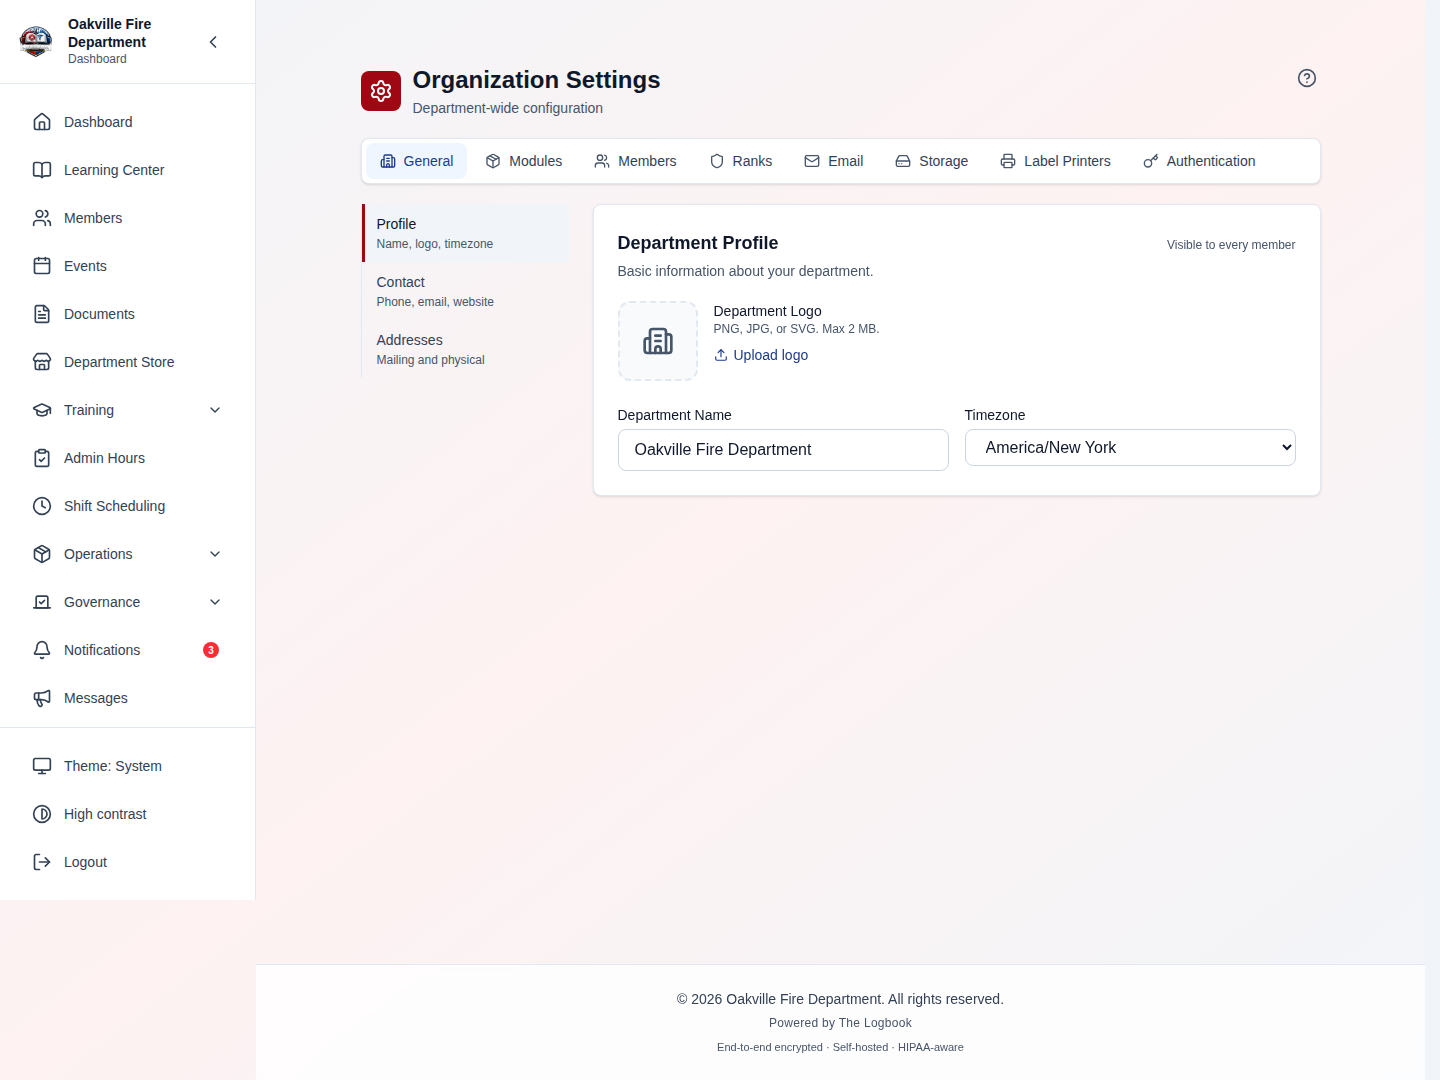
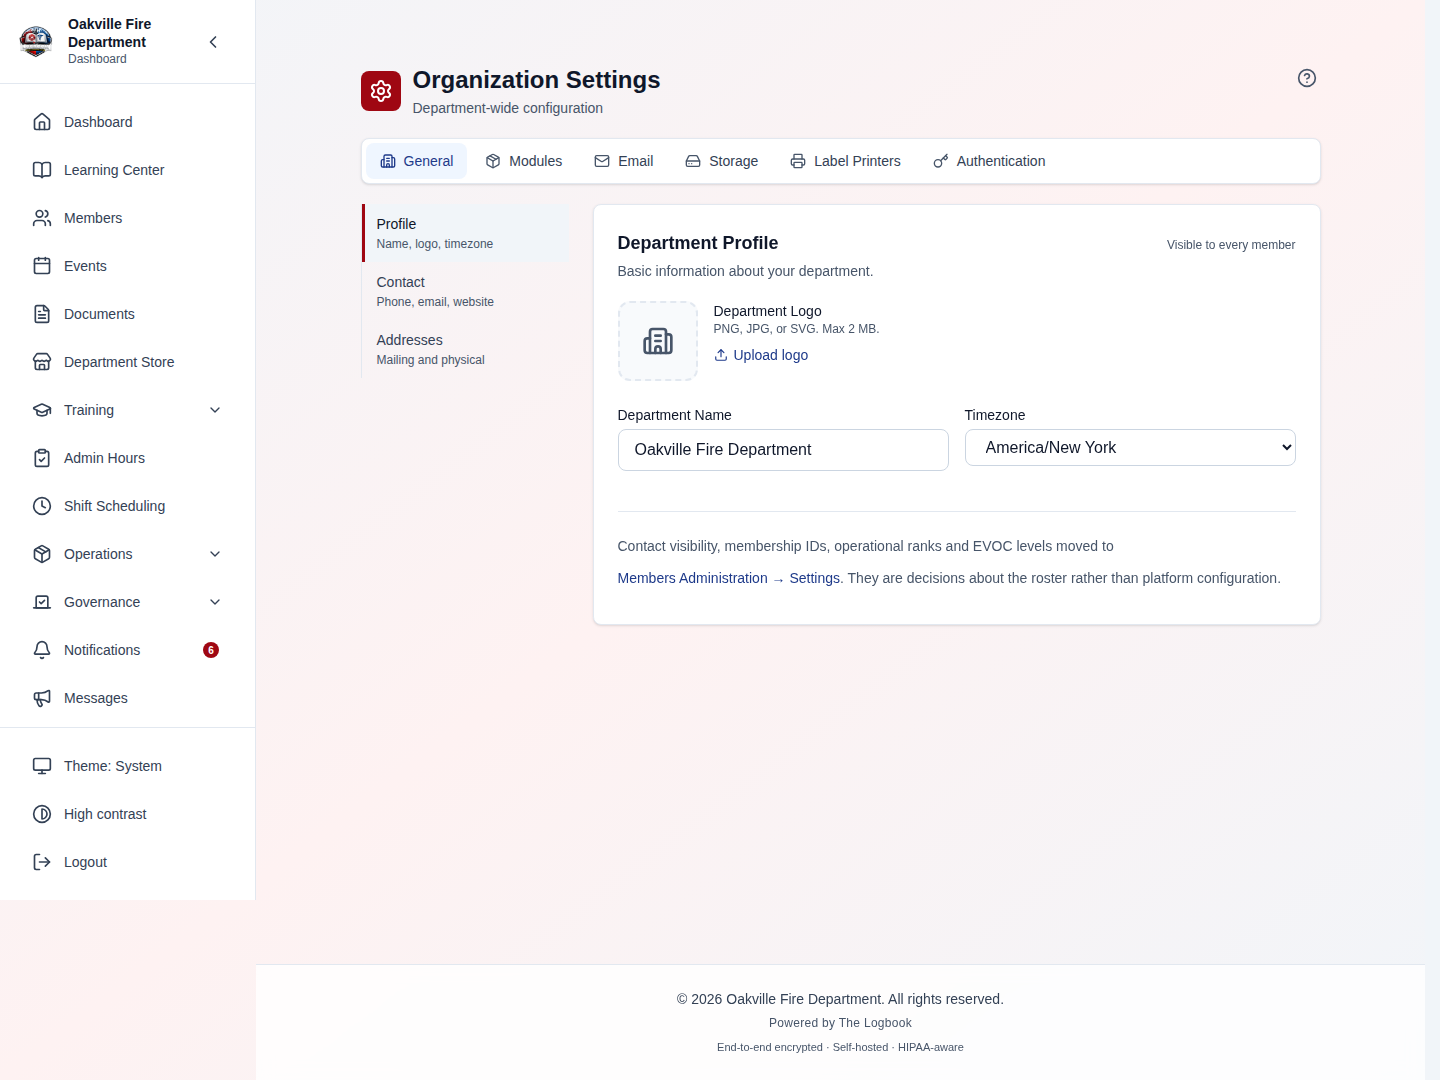
docs(screenshots): recapture ranks/evoc after Members Administration move
Resolves the September 8 queue entry: Operational Ranks and EVOC Levels
moved off the old global Settings page into their own sections under
Members Administration (RanksSection at /members/admin/settings/ranks,
EvocSection at /members/admin/settings/evoc, gated on apparatus.manage).

- Repoint 03-33-settings-eligibility's manifest route from
  /settings?tab=ranks to /members/admin/settings/ranks directly and
  recapture — the old route still redirects, but capturing the redirect
  target avoids photographing the wrong page chrome.
- Add a manifest entry and a new placeholder/screenshot for the EVOC
  Levels settings screen itself, which had never been captured (the
  prior EVOC shots are all apparatus-form fields, not the settings
  ladder).
- Recapture 08-02-organization-settings: the committed image predated
  the move and still showed a stale "Ranks" tab in the General-settings
  tab bar.
- While shooting the new EVOC capture, found seed_demo_data.py's
  Basic/Intermediate/Advanced EVOC blueprint can never land — the
  backend's lazy per-org default (EvocLevelService.DEFAULT_EVOC_LEVELS,
  the NFPA 1451 EVOC 1-4 ladder) always seeds first. Corrected
  01-membership.md's EVOC table and surrounding prose to describe the
  ladder the screen actually shows; left seed_demo_data.py itself alone
  as out of scope for this pass.
- SCREENSHOT_STATUS.md regenerated via status_report.py (568/568).
- audit_images.py --baseline and check_docs_links.py both clean.
[…]

diff --git a/docs/training/SCREENSHOT_CURRENCY.md b/docs/training/SCREENSHOT_CURRENCY.md
@@ -219,10 +219,13 @@ the same machinery as every other shot rather than being typed by hand.
 
 ## Disposition for September 8, 2026 — Operational Ranks and EVOC Levels moved into Members Administration
 
-Queue, not yet shot. Found rebasing this branch onto main through #2424 (merge
-base d24934d → 8077ad1): `03-15` on the settings-consolidation timeline this
-file already tracks, not a fresh redesign — same pattern as the earlier moves
-of Contact Visibility and Membership IDs off the global Settings page.
+**Resolved 2026-09-09.** All three items below are recaptured; nothing from
+this entry is still queued.
+
+Found rebasing this branch onto main through #2424 (merge base d24934d →
+8077ad1): `03-15` on the settings-consolidation timeline this file already
+tracks, not a fresh redesign — same pattern as the earlier moves of Contact
+Visibility and Membership IDs off the global Settings page.
 
 `RanksSettingsSection` (rendered inline on the old global Settings page) was
 replaced by a standalone `RanksSection` at `/members/admin/settings/ranks`, and
@@ -230,23 +233,33 @@ EVOC Levels — previously a sub-page of that same section — is now its own
 `EvocSection` at `/members/admin/settings/evoc`, gated on `apparatus.manage`
 rather than the ladder's `members.manage`/`settings.manage`.
 
-| Image area | Note |
-| --- | --- |
-| `03-33-settings-eligibility` | Manifest route is `/settings?tab=ranks`, which still **redirects** to `/members/admin/settings/ranks` rather than falling through to the dashboard — so the capture would not silently succeed against the wrong page, only against the wrong *chrome*: the old global-Settings shell instead of the Members Administration one the content now lives in. Repoint the manifest entry to the new route and recapture |
-| `/members/admin/settings/evoc` (EVOC Levels) | Never captured on its own — no prior manifest entry exists. The only existing EVOC shots are apparatus-form fields (`03-52`, `01-30`, `06-21`), not the settings ladder itself |
-| Any capture of the old global Settings page's section list | Loses the **Ranks** entry the sidebar used to show; two new rows (**Operational Ranks**, **EVOC Levels**) now live under Members Administration → Settings instead |
+| Image                              | Fixed                                                                                                                                                                                                                                                                                                                                                          |
+| ----------------------------------- | -------------------------------------------------------------------------------------------------------------------------------------------------------------------------------------------------------------------------------------------------------------------------------------------------------------------------------------------------------------- |
+| `03-33-settings-eligibility.png`    | Manifest route repointed from `/settings?tab=ranks` to `/members/admin/settings/ranks` directly, and recaptured — the Operational Ranks list now sits inside the Members Administration shell it actually lives in, not the old global-Settings chrome                                                                                                    |
+| `01-42-evoc-levels-settings.png`    | Added — no manifest entry existed for the EVOC Levels settings screen itself (the prior EVOC shots, `03-52`/`01-30`/`06-21`, are all apparatus-form fields). Captured at `/members/admin/settings/evoc` and filled a new placeholder in `01-membership.md`'s EVOC Certification section, right after "The levels are yours to define"                     |
+| `08-02-organization-settings.png`   | Recaptured. The committed image predated the move (last shot 2026-09-06) and still showed a **Ranks** tab in the General-settings tab bar; the current page has already lost it and gained the redirect notice pointing to Members Administration → Settings. No manifest change — the route is still bare `/settings`, only the page's own content moved |
+
+**A second, unrelated drift surfaced while shooting the new EVOC capture,
+fixed in the same pass because it sat next to the new screenshot:** the demo
+data an org actually starts with is `EvocLevelService.DEFAULT_EVOC_LEVELS` —
+the NFPA 1451 EVOC 1-4 ladder, lazily seeded the first time anyone reads the
+list for an org with none — not the Basic/Intermediate/Advanced triple
+`seed_demo_data.py`'s `seed_evoc_levels()` intends. That blueprint can never
+land: the lazy default always fires first, seeding levels 1-3 before the
+seeder's own step runs, and "safe to re-run, skips what exists" then skips it.
+`01-membership.md`'s table described the seeder's dead intent rather than what
+the screen shows; it now describes the real seeded ladder. `seed_evoc_levels()`
+itself is unchanged — retiring its unreachable blueprint is a seeder-code
+change, not a screenshot one, and out of scope for this pass.
 
 `docs/training/03-scheduling.md` was already corrected in the same PR range (it
 now reads "Members Administration → Settings → Operational Ranks" throughout),
-so only the images lag, not the prose.
+so only the images lagged there, not the prose.
 
 Not investigated as part of this pass: whether the wider #2424/#2420/#2430
 range changed anything else worth a queue entry beyond this move — this entry
 covers only what the diff against the prior rebase point (d24934d) surfaced by
-inspection, not a full manual audit of the merged screens. `audit_images.py
---baseline` and `status_report.py` both report clean (no new automated
-findings; 567/567 placeholders still filled), but neither check looks at
-navigation or component identity, which is what actually changed here.
+inspection, not a full manual audit of the merged screens.
 
 ## Disposition for September 7-8, 2026 - the items list gained pinning and grouping
 

diff --git a/docs/training/01-membership.md b/docs/training/01-membership.md
@@ -1028,8 +1028,9 @@ their profile.
 
 > **Corrected 2026-08-10.** This section previously said the level was "tracked
 > on their profile" and "set via the member admin edit page". There is no EVOC
-> field on the profile or the Admin Edit page, and the three levels below are
-> your organization's, not the system's.
+> field on the profile or the Admin Edit page, and the levels below are
+> your organization's own row — seeded per-org rather than shared system-wide,
+> and editable once seeded.
 
 **Where to set it.** Open **Operations > Apparatus**, choose the apparatus, and
 go to its **Operators** tab. **Add Operator** picks a member and records their
@@ -1044,17 +1045,27 @@ holds:
 - **Has operating restrictions**, with notes
 - **Active operator** and free-text notes
 
-**The levels are yours to define.** EVOC levels are configured per organization
-with a level number, name and code — they are not a fixed Basic / Intermediate
-/ Advanced triple. The numbering follows the national 1–4 convention, and each
-level can be marked cumulative (holding level 3 also grants level 2's
-privileges) or not, for local exceptions. The demo data defines three:
+**The levels are yours to define, and they start seeded.** EVOC levels are
+configured per organization with a level number, name and code — not a global,
+shared list. The first time anyone opens the EVOC Levels screen (or otherwise
+reads the list) for an organization with none, the backend seeds the standard
+NFPA 1451 four-tier ladder below; from there every level, including those four,
+can be renamed, recoded or deleted. Each level can also be marked cumulative
+(holding level 3 also grants level 2's privileges) or not, for departments that
+run a non-cumulative ladder. Set them at **Members Administration > Settings >
+EVOC Levels**, gated on `apparatus.manage` rather than a members permission —
+the levels are served by the apparatus API, and completing a level's linked
+training program auto-creates operator records on every apparatus requiring
+that level or lower.
 
-| Level | Name         | Code   | Covers                                     |
-| ----: | ------------ | ------ | ------------------------------------------ |
-|     1 | Basic        | EVOC-1 | Emergency vehicle operation, non-transport |
-|     2 | Intermediate | EVOC-2 | Engine and rescue apparatus                |
-|     3 | Advanced     | EVOC-3 | Aerial and tiller-equipped apparatus       |
+![The EVOC Levels settings screen listing the seeded EVOC 1-4 ladder, each with its code and cumulative flag](./images/01-42-evoc-levels-settings.png)
+
+| Level | Name                     | Code  | Covers                                                     |
+| ----: | ------------------------ | ----- | ---------------------------------------------------------- |
+|     1 | EVOC 1 - Light Vehicle   | EVOC1 | Staff cars, utility vehicles, other light apparatus        |
+|     2 | EVOC 2 - Ambulance       | EVOC2 | Ambulances and medium-duty apparatus                       |
+|     3 | EVOC 3 - Engine / Pumper | EVOC3 | Engines, pumpers, tankers, and other heavy apparatus       |
+|     4 | EVOC 4 - Aerial          | EVOC4 | Aerials, ladders, tillers, and specialized heavy apparatus |
 
 **What it is used for.** An apparatus can name a **Required EVOC Level**. When
 scheduling puts a member in a driver/operator position, it takes the highest

diff --git a/docs/training/SCREENSHOT_STATUS.md b/docs/training/SCREENSHOT_STATUS.md
@@ -9,12 +9,12 @@ image still matches the application is tracked by hand in
 [SCREENSHOT_CURRENCY.md](./SCREENSHOT_CURRENCY.md) — this file is
 regenerated wholesale, so that audit cannot live here.
 
-**567 of 567 placeholders filled** (0 remaining).
+**568 of 568 placeholders filled** (0 remaining).
 
 | Guide | Captured | Remaining |
 |-------|---------:|----------:|
 | [00-getting-started.md](./00-getting-started.md) | 17 | 0 |
-| [01-membership.md](./01-membership.md) | 29 | 0 |
+| [01-membership.md](./01-membership.md) | 30 | 0 |
 | [02-training.md](./02-training.md) | 73 | 0 |
 | [03-scheduling.md](./03-scheduling.md) | 82 | 0 |
 | [04-events-meetings.md](./04-events-meetings.md) | 39 | 0 |
@@ -34,5 +34,5 @@ regenerated wholesale, so that audit cannot live here.
 | [18-storefront.md](./18-storefront.md) | 4 | 0 |
 | [19-august-2026-release-changes.md](./19-august-2026-release-changes.md) | 49 | 0 |
 | [20-september-2026-release-changes.md](./20-september-2026-release-changes.md) | 17 | 0 |
-| **Total** | **567** | **0** |
+| **Total** | **568** | **0** |
 
